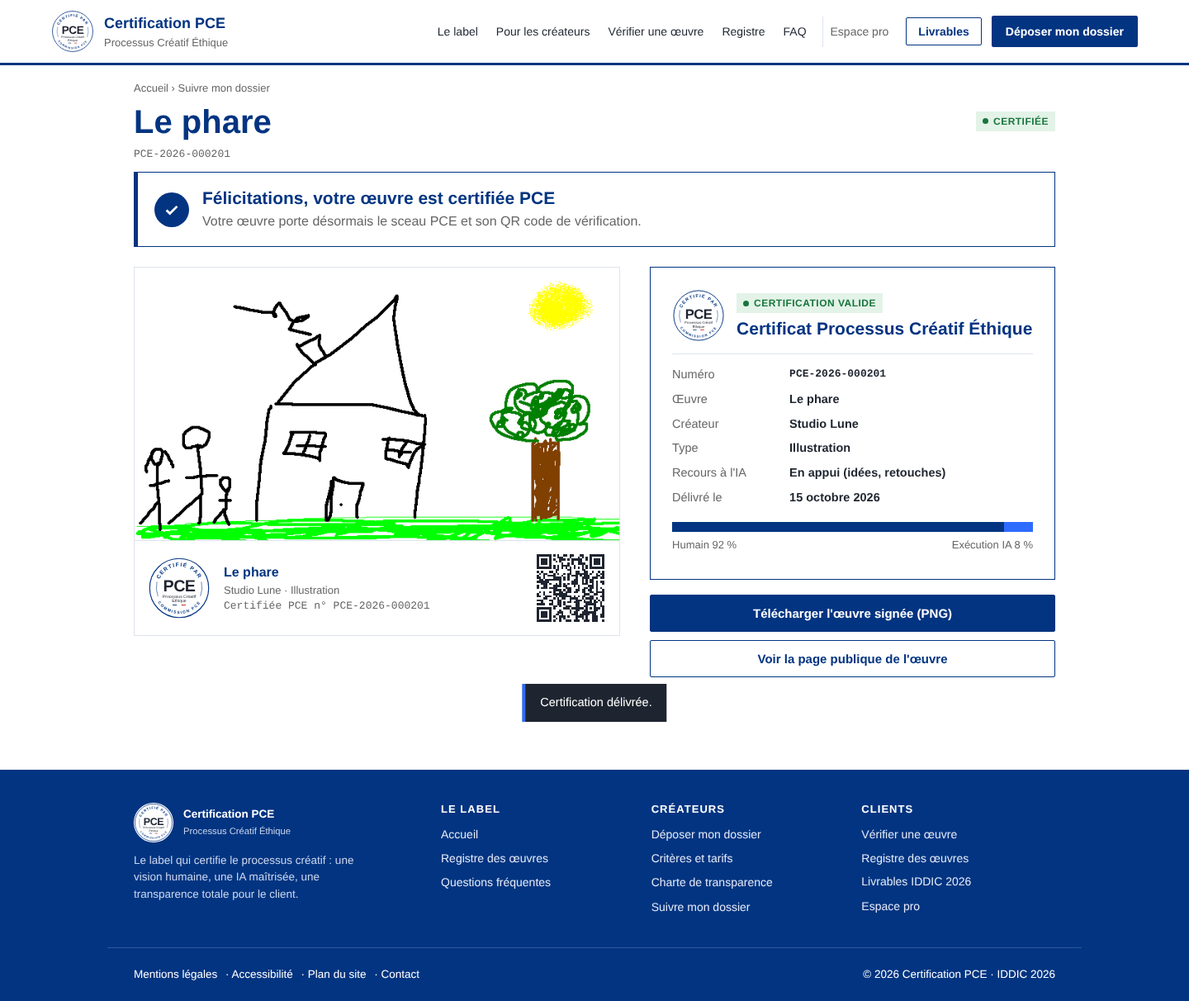
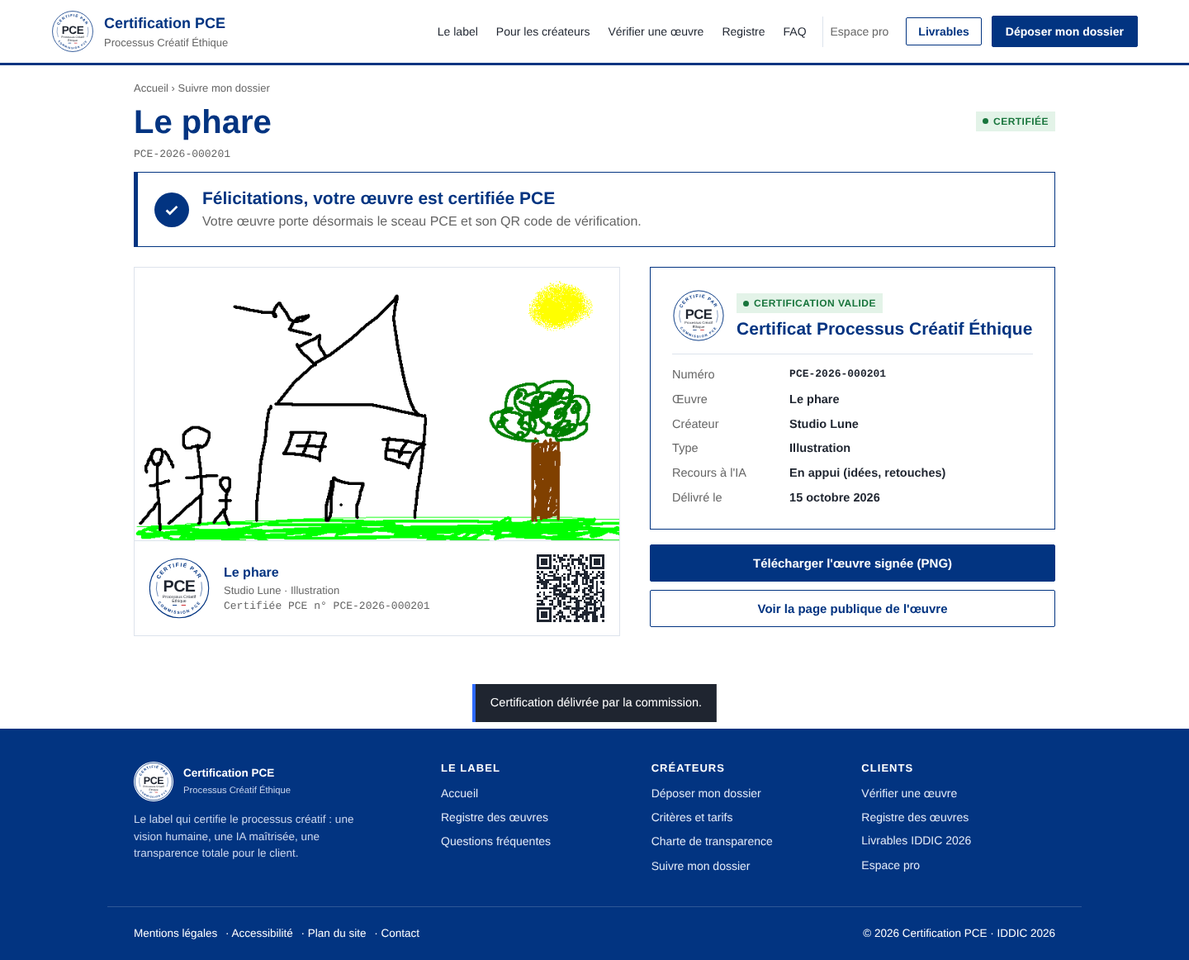
Aucun test d'IA dans le parcours créateur : vérification par la commission après le dépôt
Claude-Session: https://claude.ai/code/session_013D7uRxLFz2dHeA6eheZQbo

diff --git a/livrable/Prototype_PCE.html b/livrable/Prototype_PCE.html
@@ -2800,7 +2800,6 @@ const esc = s => String(s ?? "").replace(/[&<>"']/g, c => ({ "&": "&amp;", "<": 
 const eur = n => (Math.round(n * 100) / 100).toLocaleString("fr-FR", { minimumFractionDigits: 0, maximumFractionDigits: 2 }) + " €";
 const dateFr = d => new Date(d).toLocaleDateString("fr-FR", { day: "numeric", month: "long", year: "numeric" });
 const dateC = d => new Date(d).toLocaleDateString("fr-FR");
-const pctIA = d => { const t = (+d.recherche || 0) + (+d.creation || 0) + (+d.ia || 0); return t ? Math.round((+d.ia || 0) / t * 100) : 0; };
 function rng(seed) { let s = seed >>> 0 || 1; return () => (s = (s * 1664525 + 1013904223) >>> 0) / 4294967296; }
 function toast(msg) { $$(".toast").forEach(t => t.remove()); const t = document.createElement("div"); t.className = "toast"; t.setAttribute("role", "status"); t.textContent = msg; document.body.append(t); setTimeout(() => t.remove(), 3100); }
 function telecharger(nom, contenu, type) { const b = contenu instanceof Blob ? contenu : new Blob([contenu], { type }); const a = document.createElement("a"); a.href = URL.createObjectURL(b); a.download = nom; document.body.append(a); a.click(); setTimeout(() => { URL.revokeObjectURL(a.href); a.remove(); }, 500); }
@@ -2930,7 +2929,7 @@ const ariane = (...p) => `<div class="ariane"><a href="#/">Accueil</a> › ${p.m
 function vueAccueil() {
   const o = DB.data.oeuvres, cert = o.filter(x => x.statut === "certifiee");
   const createurs = new Set(cert.map(x => x.createur)).size;
-  const moyIA = cert.length ? Math.round(cert.reduce((s, x) => s + pctIA(x.dosage), 0) / cert.length) : 0;
+  const disciplines = new Set(cert.map(x => x.type)).size;
   return `<div class="conteneur">
     ${ariane("Certification PCE")}
     <section class="hero">
@@ -2945,8 +2944,8 @@ function vueAccueil() {
     <div class="chiffres rev">
       <div><b data-compte="${cert.length}">0</b><span>œuvres certifiées</span></div>
       <div><b data-compte="${createurs}">0</b><span>créateurs certifiés</span></div>
-      <div><b data-compte="${moyIA}" data-suffixe=" %">0</b><span>part moyenne d'exécution par IA</span></div>
-      <div><b data-compte="${SEUIL}" data-suffixe=" %">0</b><span>seuil maximal du référentiel</span></div>
+      <div><b data-compte="${disciplines}">0</b><span>disciplines représentées</span></div>
+      <div><b>0 €</b><span>pour vérifier une œuvre</span></div>
     </div>
   </div>
   <section class="section"><div class="conteneur">
@@ -2992,7 +2991,7 @@ function vueCreateurs() {
     <div class="grille4">
       <div class="carte rev"><h3><span class="pastille">1</span>Processus documenté</h3><p>Recherches, croquis, versions successives, choix de style.</p></div>
       <div class="carte rev"><h3><span class="pastille">2</span>Conception humaine</h3><p>L'intention, la composition et les choix artistiques sont les vôtres.</p></div>
-      <div class="carte rev"><h3><span class="pastille">3</span>IA en exécution</h3><p>L'exécution assistée par IA représente ${SEUIL} % maximum du projet. La commission le vérifie sur vos justificatifs.</p></div>
+      <div class="carte rev"><h3><span class="pastille">3</span>IA maîtrisée</h3><p>L'IA reste un outil d'exécution, dans la limite de ${SEUIL} % du projet fixée par le référentiel. La commission le vérifie après le dépôt, sur vos justificatifs.</p></div>
       <div class="carte rev"><h3><span class="pastille">4</span>Justificatifs</h3><p>Croquis, fichiers sources ou étapes intermédiaires, au format PDF, JPG ou PNG.</p></div>
     </div>
     <h2 style="margin-top:44px">Tarifs</h2>
@@ -3042,7 +3041,7 @@ function vueFaq() {
     ["Combien coûte la certification ?", "L'abonnement est sur mesure, à partir de 9 € HT par mois pour un indépendant. Son tarif dépend du nombre de créations à certifier, de la taille de la structure, de l'ampleur du processus créatif et de l'étude du dossier. La certification à l'unité dépend de l'œuvre, de 25 € à 149 € HT. La vérification est gratuite."],
     ["Comment un acheteur vérifie-t-il une œuvre ?", "En scannant le QR code apposé sur l'œuvre ou en saisissant le numéro PCE sur la page Vérifier une certification."],
     ["Pourquoi signer la Charte de transparence ?", "La charte engage le créateur sur l'usage de l'IA, la transparence des devis, le respect de la propriété intellectuelle et l'acceptation des audits. Sa signature est obligatoire pour déposer un dossier."],
-    ["Les heures déclarées suffisent-elles à obtenir le label ?", "Non. Les heures sont indicatives : elles servent au devis client et à l'estimation de l'abonnement. La part réelle d'IA est vérifiée par la commission sur les justificatifs (croquis, fichiers sources, calques, prompts)."],
+    ["Les heures déclarées suffisent-elles à obtenir le label ?", "Non. Les heures sont indicatives : elles servent au devis client et à l'estimation de l'abonnement. Aucun test d'IA n'est fait au dépôt : la commission vérifie ensuite la démarche sur les justificatifs (croquis, fichiers sources, calques, prompts)."],
     ["Que se passe-t-il en cas de refus ?", "Le motif vous est communiqué. Vous pouvez compléter votre dossier et le déposer à nouveau."],
   ];
   return `<div class="conteneur etroit">${ariane("FAQ")}<h1>Questions fréquentes</h1>${q.map(([a, b]) => `<details class="rev"><summary>${a}</summary><p>${b}</p></details>`).join("")}<div style="height:56px"></div></div>`;
@@ -3078,7 +3077,7 @@ function vueVerifier(id) {
     <div class="grille3" style="margin:6px 0 24px">
       <div class="carte rev"><h3><span class="pastille">1</span>Repérez le sceau</h3><p>Chaque œuvre certifiée porte le sceau PCE et un QR code unique.</p></div>
       <div class="carte rev"><h3><span class="pastille">2</span>Scannez ou saisissez</h3><p>Le QR code ou le numéro PCE mène au certificat de l'œuvre.</p></div>
-      <div class="carte rev"><h3><span class="pastille">3</span>Consultez le dosage</h3><p>Vous voyez la part de réflexion humaine et la part d'exécution assistée par IA.</p></div>
+      <div class="carte rev"><h3><span class="pastille">3</span>Consultez le certificat</h3><p>Créateur, discipline, recours à l'IA déclaré et date de certification par la commission.</p></div>
     </div>
     <div class="info" style="margin-bottom:56px"><span class="i">i</span><span>Le <a href="#/registre">registre public</a> recense toutes les œuvres certifiées.</span></div></div>`;
 }
@@ -3089,7 +3088,7 @@ function initVerifier(id) {
     r.innerHTML = `<div class="resultat-v"><div class="rond"></div></div>`;
     setTimeout(() => {
       if (!o) r.innerHTML = `<div class="resultat-v res-ko"><h3 style="color:var(--rouge)">Aucune certification trouvée</h3><p>Le numéro ${esc(n)} ne figure pas au registre PCE. Cette œuvre n'est pas certifiée.</p></div>`;
-      else if (o.statut === "certifiee") r.innerHTML = `<div class="resultat-v res-ok"><div class="vignette">${visuel(o)}</div><div><span class="badge b-certifiee">Certification valide</span><h3 style="margin-top:10px">${esc(o.titre)}</h3><p>${esc(o.createur)} · ${esc(o.type)}<br><span class="muted">Certifiée le ${dateFr(o.date)} · Humain ${100 - pctIA(o.dosage)} % · IA ${pctIA(o.dosage)} %</span></p><a class="btn petit" href="#/oeuvre/${o.id}">Voir le certificat <span class="fl">→</span></a></div></div>`;
+      else if (o.statut === "certifiee") r.innerHTML = `<div class="resultat-v res-ok"><div class="vignette">${visuel(o)}</div><div><span class="badge b-certifiee">Certification valide</span><h3 style="margin-top:10px">${esc(o.titre)}</h3><p>${esc(o.createur)} · ${esc(o.type)}<br><span class="muted">Certifiée le ${dateFr(o.date)} · Recours à l'IA déclaré : ${IA_LIB[o.iaMode].toLowerCase()}</span></p><a class="btn petit" href="#/oeuvre/${o.id}">Voir le certificat <span class="fl">→</span></a></div></div>`;
       else if (o.statut === "refusee") r.innerHTML = `<div class="resultat-v res-ko"><span class="badge b-refusee">Non certifiée</span><h3 style="margin-top:10px">${esc(o.titre)}</h3><p>Ce dossier a été examiné et n'a pas obtenu la certification PCE.</p></div>`;
       else r.innerHTML = `<div class="resultat-v res-att"><span class="badge b-commission">En cours d'examen</span><h3 style="margin-top:10px">${esc(o.titre)}</h3><p>Ce dossier est en cours d'examen (${STATUTS[o.statut].toLowerCase()}). L'œuvre n'est pas encore certifiée.</p></div>`;
     }, 500);
@@ -3101,7 +3100,6 @@ function initVerifier(id) {
 
 /* ---------- Fiche œuvre et certificat ---------- */
 function blocCertificat(o) {
-  const ia = pctIA(o.dosage);
   return `<div class="certificat">
     <div class="ent"><img src="${LOGO}" alt="Sceau PCE"><div><span class="badge b-certifiee">Certification valide</span><h2 style="margin:6px 0 0;font-size:21px">Certificat Processus Créatif Éthique</h2></div></div>
     <dl>
@@ -3112,7 +3110,6 @@ function blocCertificat(o) {
       <dt>Recours à l'IA</dt><dd>${IA_LIB[o.iaMode]}</dd>
       <dt>Délivré le</dt><dd>${dateFr(o.date)}</dd>
     </dl>
-    <div class="dosage"><div class="barre"><span class="h" style="width:${100 - ia}%"></span><span class="ia" style="width:${ia}%"></span></div><div class="leg"><span>Humain ${100 - ia} %</span><span>Exécution IA ${ia} %</span></div></div>
   </div>`;
 }
 function vueOeuvre(id) {
@@ -3201,10 +3198,10 @@ function etape2(b) {
   return champ("titre", "Titre de l'œuvre *", `<input id="titre" type="text" value="${esc(b.titre)}">`)
     + champ("description", "Décrivez votre processus, de l'idée au rendu *", `<textarea id="description" placeholder="Ex : recherches, croquis, choix de style, versions successives, outils utilisés…">${esc(b.description)}</textarea>`, "", "Décrivez votre processus en 40 caractères minimum.")
     + `<div class="champ"><span class="lab">Recours à l'IA dans votre travail *</span><div class="radios">${Object.entries(IA_LIB).map(([k, v]) => `<label><input type="radio" name="iaMode" value="${k}" ${b.iaMode === k ? "checked" : ""}> ${v}</label>`).join("")}</div></div>
-    <div class="champ"><span class="lab">Temps consacré au projet (heures, à titre indicatif)</span><span class="aide">Ces heures servent au devis client et à l'estimation de l'abonnement. Elles ne déterminent pas la certification : la part réelle d'IA est vérifiée par la commission sur vos justificatifs.</span>
+    <div class="champ"><span class="lab">Temps consacré au projet (heures, à titre indicatif)</span><span class="aide">Ces heures servent uniquement au devis client et à l'estimation de l'abonnement. Aucun test d'IA n'est fait au dépôt : la commission vérifie votre démarche après le dépôt, sur vos justificatifs.</span>
       <div class="ligne-h"><label for="recherche">Recherche et intention</label><input id="recherche" type="number" min="0" value="${b.recherche}"></div>
       <div class="ligne-h"><label for="creation">Création et direction artistique</label><input id="creation" type="number" min="0" value="${b.creation}"></div>
-      <div class="ligne-h" id="l-ia"><label for="ia">Exécution assistée par IA</label><input id="ia" type="number" min="0" value="${b.ia}"></div>
+      <div class="ligne-h" id="l-ia"><label for="ia">Exécution et finitions</label><input id="ia" type="number" min="0" value="${b.ia}"></div>
       <div class="dosage" id="dos"></div></div>`
     + `<div id="l-outils">` + champ("outils", "Outils d'IA utilisés et pour quoi faire", `<input id="outils" type="text" value="${esc(b.outils)}" placeholder="Ex : retouche colorimétrique, détourage">`) + `</div>`;
 }
@@ -3227,8 +3224,8 @@ const ARTICLES_3_5 = `
   <div class="article"><h3><span class="pastille">3</span>Engagement de transparence</h3><p>Je m'engage légalement et moralement à faire preuve d'une transparence absolue envers le label PCE et mes futurs clients. À ce titre, je certifie que :</p>
     <ul><li><b>L'IA comme assistant, pas comme créateur :</b> l'Intelligence Artificielle n'est utilisée que comme un outil d'assistance (recherche, inspiration, exécution de tâches répétitives, retouches mineures), dans la limite de ${SEUIL} % du temps total de chaque projet, conformément au référentiel PCE.</li>
     <li><b>La réflexion humaine prédomine :</b> la direction artistique, le concept originel, le message et la structure de l'œuvre finale sont à 100 % le fruit de mon travail intellectuel humain.</li>
-    <li><b>Transparence des devis :</b> je m'engage à utiliser le devis certifié PCE pour indiquer clairement à mon client la proportion de mon processus de travail assistée par IA.</li>
-    <li><b>Sincérité des déclarations :</b> je m'engage à déclarer de bonne foi, à titre indicatif, le temps consacré à la recherche, à la création et à l'exécution assistée par IA, et à fournir les justificatifs permettant à la commission de vérifier la part réelle d'IA.</li></ul></div>
+    <li><b>Transparence des devis :</b> je m'engage à utiliser le devis certifié PCE pour indiquer clairement à mon client les étapes de mon processus de travail et les outils d'IA utilisés.</li>
+    <li><b>Sincérité des déclarations :</b> je m'engage à déclarer de bonne foi, à titre indicatif, le temps consacré à la recherche, à la création et à l'exécution, et à fournir les justificatifs permettant à la commission de vérifier ma démarche et mon recours à l'IA.</li></ul></div>
   <div class="article"><h3><span class="pastille">4</span>Respect de la Propriété Intellectuelle</h3><p>Je certifie ne jamais utiliser de générateurs d'images ou de textes dans le but de reproduire, plagier ou piller le travail d'un autre créateur. Je m'assure que les contenus générés par IA que j'inclus dans mon travail final respectent les droits d'auteur en vigueur.</p></div>
   <div class="article" style="border:none"><h3><span class="pastille">5</span>Consentement à l'Audit et aux contrôles</h3><p>J'accepte que l'organisme PCE puisse, de manière aléatoire ou sur demande d'un client, réaliser un audit de mon processus créatif. Je m'engage à fournir sur demande les fichiers sources (calques, croquis, rushs, prompts) permettant de prouver la part de travail humain sur une œuvre certifiée. En cas de fraude avérée, je reconnais que le label PCE me sera immédiatement retiré, ainsi que les certificats des œuvres concernées, qui seront signalés comme retirés dans le registre public.</p></div>`;
 const PREAMBULE = "Le label Processus Créatif Éthique (PCE) a pour vocation de défendre la valeur du savoir-faire humain et de garantir aux clients une transparence totale sur l'utilisation de l'Intelligence Artificielle. En signant cette charte, le Créatif s'engage à faire de l'IA un outil d'assistance, et non un outil de substitution à sa réflexion artistique.";
@@ -3285,7 +3282,7 @@ ${ARTICLES_3_5.replace(/<div class="article"[^>]*><h3><span class="pastille">(\d
 }
 const telechargerCharte = o => { telecharger(`charte-signee-${o.id}.html`, charteSigneeHtml(o), "text/html"); toast("Charte signée téléchargée."); };
 function etape4(b) {
-  const ia = pctIA(b), unite = TYPES[b.type], est = estimerAbo(b.taille, b.creationsAn, (+b.recherche || 0) + (+b.creation || 0) + (+b.ia || 0));
+  const unite = TYPES[b.type], est = estimerAbo(b.taille, b.creationsAn, (+b.recherche || 0) + (+b.creation || 0) + (+b.ia || 0));
   const h = (+b.recherche || 0) + (+b.creation || 0) + (+b.ia || 0), t = +b.taux || 0, cert = b.formule === "unite" ? unite : 0;
   return `<h3>Votre formule</h3>
     <div class="formules">
@@ -3298,10 +3295,9 @@ function etape4(b) {
     <table class="devis"><tr><th>Poste</th><th>Montant HT</th></tr>
       <tr><td>Recherche et intention · ${b.recherche} h</td><td>${eur(b.recherche * t)}</td></tr>
       <tr><td>Création et direction artistique · ${b.creation} h</td><td>${eur(b.creation * t)}</td></tr>
-      <tr><td>Exécution assistée par IA · ${b.ia} h</td><td>${eur(b.ia * t)}</td></tr>
+      <tr><td>Exécution et finitions · ${b.ia} h</td><td>${eur(b.ia * t)}</td></tr>
       <tr><td>Certification PCE</td><td>${cert ? eur(cert) : "Incluse"}</td></tr>
       <tr class="tot"><td>Total HT</td><td>${eur(h * t + cert)}</td></tr></table>
-    <div class="dosage"><div class="barre"><span class="h" style="width:${100 - ia}%"></span><span class="ia" style="width:${ia}%"></span></div><div class="leg"><span>Humain ${100 - ia} %</span><span>Exécution IA ${ia} %</span></div></div>
     <button type="button" class="btn sec petit" id="dl-devis" style="margin-top:10px">Télécharger le devis</button>
     <h3 style="margin-top:28px">Récapitulatif</h3>
     <dl class="recap deux"><div><dt>Créateur</dt><dd>${esc(b.createur)}</dd><dt>E-mail</dt><dd>${esc(b.email)}</dd><dt>Discipline</dt><dd>${esc(b.type)}</dd></div>
@@ -3309,11 +3305,7 @@ function etape4(b) {
     ${b.signature ? `<div class="signee"><img src="${b.signature}" alt="Signature"><div><b>Charte de transparence signée</b><br><span class="muted">Le ${dateFr(b.signeLe)}</span></div></div>` : ""}
     ${b.img ? `<div class="apercu"><img src="${b.img}" alt=""><div><b>${esc(b.imgNom || "Œuvre finale")}</b><br><span class="muted petit-texte">Recevra le sceau PCE et un QR code.</span></div></div>` : ""}`;
 }
-function majDosage(b) {
-  const z = $("#dos"); if (!z) return; const ia = pctIA(b);
-  z.innerHTML = `<div class="barre"><span class="h" style="width:${100 - ia}%"></span><span class="ia" style="width:${ia}%"></span></div><div class="leg"><span>Humain ${100 - ia} %</span><span>Exécution IA ${ia} %</span></div>
-    <div class="verdict info">Répartition déclarée, indicative. La conformité au référentiel (IA en exécution, ${SEUIL} % maximum) est vérifiée par la commission sur vos justificatifs.</div>`;
-}
+function majDosage() {}
 function lireFichier(f) { return new Promise(ok => { const r = new FileReader(); r.onload = () => ok(r.result); r.readAsDataURL(f); }); }
 async function reduireImage(src, max = 1400) {
   const im = await chargerImg(src); const k = Math.min(1, max / Math.max(im.naturalWidth, im.naturalHeight));
@@ -3342,7 +3334,7 @@ function initDepot() {
     const x = $("input[name=expertise]:checked", form); if (x) b.expertise = x.value;
     DB.sauver();
   };
-  const iaUi = () => { const aucun = b.iaMode === "aucun"; if ($("#l-ia")) { $("#l-ia").style.display = aucun ? "none" : ""; $("#l-outils").style.display = aucun ? "none" : ""; if (aucun) { b.ia = 0; $("#ia").value = 0; } } majDosage(b); };
+  const iaUi = () => { if ($("#l-outils")) $("#l-outils").style.display = b.iaMode === "aucun" ? "none" : ""; };
   form.addEventListener("input", ev => { const ch = ev.target.closest(".champ, .article"); if (ch) ch.classList.remove("erreur"); lire(); iaUi(); if (e === 4) { const y = scrollY; $("#d-form").innerHTML = etape4(b); initEtape4(); scrollTo(0, y); } });
   form.addEventListener("change", ev => { const ch = ev.target.closest(".champ, .article"); if (ch) ch.classList.remove("erreur"); lire(); iaUi(); if (e === 4) { const y = scrollY; $("#d-form").innerHTML = etape4(b); initEtape4(); scrollTo(0, y); } });
   if (e === 1) iaUi();
@@ -3374,9 +3366,9 @@ function initDepot() {
 function initEtape4() {
   const b = brouillon();
   $("#dl-devis").onclick = () => {
-    const t = +b.taux || 0, cert = b.formule === "unite" ? TYPES[b.type] : 0, ia = pctIA(b);
-    const l = [["Recherche et intention", b.recherche], ["Création et direction artistique", b.creation], ["Exécution assistée par IA", b.ia]];
-    const html = `<!doctype html><html lang="fr"><meta charset="utf-8"><title>Devis ${esc(b.titre)}</title><body style="font-family:Arial;max-width:720px;margin:40px auto;color:#1F2530"><h1 style="color:#023481">Devis</h1><p><b>${esc(b.createur)}</b><br>${esc(b.titre)} · ${esc(b.type)}</p><table style="width:100%;border-collapse:collapse">${l.map(([n, h]) => `<tr><td style="padding:8px;border-bottom:1px solid #ddd">${n} · ${h} h</td><td style="text-align:right;padding:8px;border-bottom:1px solid #ddd">${eur(h * t)}</td></tr>`).join("")}<tr><td style="padding:8px">Certification PCE</td><td style="text-align:right;padding:8px">${cert ? eur(cert) : "Incluse"}</td></tr><tr><td style="padding:8px;font-weight:bold;color:#023481">Total HT</td><td style="text-align:right;padding:8px;font-weight:bold;color:#023481">${eur((+b.recherche + +b.creation + +b.ia) * t + cert)}</td></tr></table><p>Dosage du processus : humain ${100 - ia} %, exécution assistée par IA ${ia} %.</p><p style="color:#666">Processus certifié PCE · Processus Créatif Éthique</p></body></html>`;
+    const t = +b.taux || 0, cert = b.formule === "unite" ? TYPES[b.type] : 0;
+    const l = [["Recherche et intention", b.recherche], ["Création et direction artistique", b.creation], ["Exécution et finitions", b.ia]];
+    const html = `<!doctype html><html lang="fr"><meta charset="utf-8"><title>Devis ${esc(b.titre)}</title><body style="font-family:Arial;max-width:720px;margin:40px auto;color:#1F2530"><h1 style="color:#023481">Devis</h1><p><b>${esc(b.createur)}</b><br>${esc(b.titre)} · ${esc(b.type)}</p><table style="width:100%;border-collapse:collapse">${l.map(([n, h]) => `<tr><td style="padding:8px;border-bottom:1px solid #ddd">${n} · ${h} h</td><td style="text-align:right;padding:8px;border-bottom:1px solid #ddd">${eur(h * t)}</td></tr>`).join("")}<tr><td style="padding:8px">Certification PCE</td><td style="text-align:right;padding:8px">${cert ? eur(cert) : "Incluse"}</td></tr><tr><td style="padding:8px;font-weight:bold;color:#023481">Total HT</td><td style="text-align:right;padding:8px;font-weight:bold;color:#023481">${eur((+b.recherche + +b.creation + +b.ia) * t + cert)}</td></tr></table><p>Recours à l'IA déclaré : ${IA_LIB[b.iaMode].toLowerCase()}${b.outils ? " (" + esc(b.outils) + ")" : ""}.</p><p style="color:#666">Processus certifié PCE · Processus Créatif Éthique</p></body></html>`;
     telecharger(`devis-${(b.titre || "oeuvre").toLowerCase().replace(/[^a-z0-9]+/g, "-")}.html`, html, "text/html"); toast("Devis téléchargé.");
   };
 }
@@ -3411,7 +3403,7 @@ function vueConfirmation(id) {
 function initConfirmation(id) {
   const o = DB.get(id); if (!o || !$("#dl-ar")) return;
   $("#dl-ch").onclick = () => telechargerCharte(o);
-  $("#dl-ar").onclick = () => { telecharger(`accuse-reception-${o.id}.txt`, `CERTIFICATION PCE · PROCESSUS CRÉATIF ÉTHIQUE\n\nAccusé de réception\n\nNuméro de dossier : ${o.id}\nDéposé le : ${dateFr(o.date)}\nCréateur : ${o.createur}\nŒuvre : ${o.titre} (${o.type})\nRecours à l'IA : ${IA_LIB[o.iaMode]} · ${pctIA(o.dosage)} % du projet\nJustificatifs : ${o.justificatifs.join(", ")}\n\nSuivi : ${BASE}/suivi/${o.id}\n`, "text/plain"); toast("Accusé de réception téléchargé."); };
+  $("#dl-ar").onclick = () => { telecharger(`accuse-reception-${o.id}.txt`, `CERTIFICATION PCE · PROCESSUS CRÉATIF ÉTHIQUE\n\nAccusé de réception\n\nNuméro de dossier : ${o.id}\nDéposé le : ${dateFr(o.date)}\nCréateur : ${o.createur}\nŒuvre : ${o.titre} (${o.type})\nRecours à l'IA déclaré : ${IA_LIB[o.iaMode]}\nJustificatifs : ${o.justificatifs.join(", ")}\n\nSuivi : ${BASE}/suivi/${o.id}\n`, "text/plain"); toast("Accusé de réception téléchargé."); };
 }
 function vueSuivi(id) {
   const o = DB.get(id);
@@ -3453,7 +3445,7 @@ function vuePro() {
 function proTableau() {
   const o = DB.data.oeuvres, c = o.filter(x => x.statut === "certifiee"), enc = o.filter(x => ["deposee", "analyse", "commission"].includes(x.statut));
   const tranch = o.filter(x => ["certifiee", "refusee"].includes(x.statut)), taux = tranch.length ? Math.round(c.length / tranch.length * 100) : 0;
-  const moy = c.length ? (c.reduce((s, x) => s + pctIA(x.dosage), 0) / c.length).toFixed(1).replace(".", ",") : 0;
+  const nbCrea = new Set(c.map(x => x.createur)).size;
   const mois = ["Janv.", "Févr.", "Mars", "Avr.", "Mai", "Juin", "Juil.", "Août", "Sept.", "Oct.", "Nov.", "Déc."];
   const parMois = mois.map((m, i) => c.filter(x => new Date(x.date).getMonth() === i && new Date(x.date).getFullYear() === 2026).length).slice(0, 10), max = Math.max(1, ...parMois);
   const parType = Object.keys(TYPES).map(t => [t, c.filter(x => x.type === t).length]), maxT = Math.max(1, ...parType.map(x => x[1]));
@@ -3461,7 +3453,7 @@ function proTableau() {
       <div class="kpi rev"><b data-compte="${c.length}">0</b><span>Œuvres certifiées</span></div>
       <div class="kpi rev"><b data-compte="${enc.length}">0</b><span>Dossiers en cours</span></div>
       <div class="kpi rev"><b data-compte="${taux}" data-suffixe=" %">0</b><span>Taux de certification</span></div>
-      <div class="kpi rev"><b>${moy} %</b><span>Part IA moyenne des œuvres certifiées</span></div>
+      <div class="kpi rev"><b data-compte="${nbCrea}">0</b><span>Créateurs certifiés</span></div>
     </div>
     <div class="pro-grille">
       <div class="boite-pro rev"><h3>Certifications délivrées en 2026</h3><div class="histo">${parMois.map((v, i) => `<div><em>${v}</em><i style="height:${v / max * 130}px;animation-delay:${i * 60}ms" title="${v} certification(s)"></i><span>${mois[i]}</span></div>`).join("")}</div></div>
@@ -3473,14 +3465,14 @@ function proTableau() {
 function filtrer(seulsEnCours) {
   const q = PRO.q.toLowerCase();
   let l = DB.data.oeuvres.filter(o => (!seulsEnCours || ["deposee", "analyse", "commission"].includes(o.statut)) && (!PRO.statut || o.statut === PRO.statut) && (!PRO.type || o.type === PRO.type) && (!q || (o.id + " " + o.titre + " " + o.createur + " " + o.email).toLowerCase().includes(q)));
-  const v = o => ({ id: o.id, titre: o.titre.toLowerCase(), createur: o.createur.toLowerCase(), type: o.type, ia: pctIA(o.dosage), date: +new Date(o.date), statut: o.statut }[PRO.tri]);
+  const v = o => ({ id: o.id, titre: o.titre.toLowerCase(), createur: o.createur.toLowerCase(), type: o.type, ia: o.iaMode, date: +new Date(o.date), statut: o.statut }[PRO.tri]);
   return l.sort((a, b) => (v(a) > v(b) ? 1 : v(a) < v(b) ? -1 : 0) * PRO.sens);
 }
 function tableau(l, triable = true) {
   if (!l.length) return `<div class="vide-msg" style="border:none">Aucun dossier.</div>`;
-  const col = [["id", "N° PCE"], ["titre", "Œuvre"], ["createur", "Créateur"], ["type", "Type"], ["ia", "Part IA"], ["date", "Date"], ["statut", "Statut"]];
+  const col = [["id", "N° PCE"], ["titre", "Œuvre"], ["createur", "Créateur"], ["type", "Type"], ["ia", "IA déclarée"], ["date", "Date"], ["statut", "Statut"]];
   return `<table class="bdd"><thead><tr>${col.map(([k, t]) => `<th ${triable ? `data-tri="${k}"` : ""} class="${PRO.tri === k && triable ? "trie" : ""}" scope="col">${t}${triable ? `<span class="tri">${PRO.tri === k ? (PRO.sens > 0 ? "▲" : "▼") : "↕"}</span>` : ""}</th>`).join("")}</tr></thead>
-    <tbody>${l.map((o, i) => `<tr data-id="${o.id}" tabindex="0" style="animation-delay:${i * 25}ms"><td class="mono">${o.id}</td><td><div class="t-oeuvre"><span class="mini">${visuel(o)}</span>${esc(o.titre)}</div></td><td>${esc(o.createur)}</td><td>${esc(o.type)}</td><td>${pctIA(o.dosage)} %</td><td>${dateC(o.date)}</td><td><span class="badge b-${o.statut}">${STATUTS[o.statut]}</span></td></tr>`).join("")}</tbody></table>`;
+    <tbody>${l.map((o, i) => `<tr data-id="${o.id}" tabindex="0" style="animation-delay:${i * 25}ms"><td class="mono">${o.id}</td><td><div class="t-oeuvre"><span class="mini">${visuel(o)}</span>${esc(o.titre)}</div></td><td>${esc(o.createur)}</td><td>${esc(o.type)}</td><td>${{ aucun: "Aucune", appui: "En appui", generation: "Génération" }[o.iaMode]}</td><td>${dateC(o.date)}</td><td><span class="badge b-${o.statut}">${STATUTS[o.statut]}</span></td></tr>`).join("")}</tbody></table>`;
 }
 function proBase(enCours) {
   const l = filtrer(enCours), par = 12, nb = Math.max(1, Math.ceil(l.length / par)); PRO.page = Math.min(PRO.page, nb - 1);
@@ -3508,7 +3500,7 @@ function initPro() {
     if ($("#pg-s")) $("#pg-s").onclick = () => { PRO.page++; re(); };
     if ($("#csv")) $("#csv").onclick = () => {
       const l = filtrer(PRO.onglet === "dossiers"), q = s => `"${String(s).replace(/"/g, '""')}"`;
-      const csv = "" + ["Numéro;Œuvre;Créateur;E-mail;Type;Ville;Date;Statut;Heures recherche;Heures création;Heures IA;Part IA %;Recours IA;Formule;Structure;Créations par an;Tarif abonnement HT / mois"].concat(l.map(o => [o.id, o.titre, o.createur, o.email, o.type, o.ville, dateC(o.date), STATUTS[o.statut], o.dosage.recherche, o.dosage.creation, o.dosage.ia, pctIA(o.dosage), IA_LIB[o.iaMode], o.formule === "abonnement" ? "Abonnement" : "Unité", o.taille || "", o.creationsAn || "", o.prixAbo ?? ""].map(q).join(";"))).join("\n");
+      const csv = "" + ["Numéro;Œuvre;Créateur;E-mail;Type;Ville;Date;Statut;Heures recherche (indicatif);Heures création (indicatif);Heures exécution (indicatif);Recours IA déclaré;Formule;Structure;Créations par an;Tarif abonnement HT / mois"].concat(l.map(o => [o.id, o.titre, o.createur, o.email, o.type, o.ville, dateC(o.date), STATUTS[o.statut], o.dosage.recherche, o.dosage.creation, o.dosage.ia, IA_LIB[o.iaMode], o.formule === "abonnement" ? "Abonnement" : "Unité", o.taille || "", o.creationsAn || "", o.prixAbo ?? ""].map(q).join(";"))).join("\n");
       telecharger("base-oeuvres-pce.csv", csv, "text/csv;charset=utf-8"); toast(`${l.length} ligne(s) exportée(s).`);
     };
     if ($("#reset")) $("#reset").onclick = () => { if (confirm("Réinitialiser toutes les données de démonstration ?")) { DB.reset(); DB.data.pro = true; DB.sauver(); re(); toast("Données de démonstration réinitialisées."); } };
@@ -3518,7 +3510,7 @@ function initPro() {
   initPro2();
 }
 function tiroir(id, apres) {
-  const o = DB.get(id); if (!o) return; const ia = pctIA(o.dosage);
+  const o = DB.get(id); if (!o) return;
   const fond = document.createElement("div"); fond.className = "tiroir-fond";
   const t = document.createElement("aside"); t.className = "tiroir"; t.setAttribute("role", "dialog"); t.setAttribute("aria-modal", "true"); t.setAttribute("aria-label", "Dossier " + o.id);
   const actions = { deposee: [["analyse", "Lancer l'analyse", ""]], analyse: [["commission", "Transmettre à la commission", ""]], commission: [["certifiee", "Certifier l'œuvre", "vert"], ["refusee", "Refuser", "danger"]] }[o.statut] || [];
@@ -3531,9 +3523,8 @@ function tiroir(id, apres) {
       <h4>Processus déclaré</h4><p style="font-size:14.5px">${esc(o.description)}</p>
       <h4>Recours à l'IA</h4><p style="font-size:14.5px">${IA_LIB[o.iaMode]}${o.outils ? " · " + esc(o.outils) : ""}</p>
       <h4>Heures déclarées (indicatives)</h4>
-      <table class="devis"><tr><td>Recherche et intention</td><td>${o.dosage.recherche} h</td></tr><tr><td>Création et direction artistique</td><td>${o.dosage.creation} h</td></tr><tr><td>Exécution assistée par IA</td><td>${o.dosage.ia} h</td></tr></table>
-      <div class="dosage"><div class="barre"><span class="h" style="width:${100 - ia}%"></span><span class="ia" style="width:${ia}%"></span></div><div class="leg"><span>Humain ${100 - ia} %</span><span>Exécution IA ${ia} %</span></div>
-      <div class="verdict info">Heures déclarées par le créatif, à titre indicatif. À contrôler sur les justificatifs (croquis, fichiers sources, calques, prompts) avant décision.</div></div>
+      <table class="devis"><tr><td>Recherche et intention</td><td>${o.dosage.recherche} h</td></tr><tr><td>Création et direction artistique</td><td>${o.dosage.creation} h</td></tr><tr><td>Exécution et finitions</td><td>${o.dosage.ia} h</td></tr></table>
+      <div class="verdict info" style="margin-top:12px">Heures déclarées par le créatif, à titre indicatif. La commission vérifie la démarche et le recours à l'IA sur les justificatifs (croquis, fichiers sources, calques, prompts) avant décision.</div>
       <h4 style="margin-top:16px">Charte de transparence</h4>
       ${o.charte ? `<div class="signee">${o.charte.signature ? `<img src="${o.charte.signature}" alt="Signature">` : ""}<div><b>Signée le ${dateFr(o.charte.signeLe || o.date)}</b><br><span class="muted">${esc(o.charte.expertise === "Autre" ? o.charte.expertiseAutre : o.charte.expertise)} · Outils IA : ${esc(o.charte.outilsIA)}</span><br><button type="button" class="lien" id="t-ch">Télécharger la charte signée</button></div></div>` : `<div class="res-ko">Charte non signée.</div>`}
       <h4 style="margin-top:16px">Justificatifs</h4><ul class="fichiers">${o.justificatifs.map(n => `<li><span>📄 ${esc(n)}</span><span class="muted">Reçu</span></li>`).join("")}</ul>

diff --git a/AUDIT.md b/AUDIT.md
@@ -32,7 +32,7 @@ Limites : tests faits dans Chromium (moteur de Chrome et Edge). Firefox et Safar
 | Le BP n'expliquait pas ses chiffres | Onglet Hypothèses ajouté |
 | Charte v1.0 : « Label officiel » avant toute accréditation, tirets longs, pas de lien avec le seuil de 10 % | Charte v1.1 dans le site : « Label Processus Créatif Éthique », seuil de 10 % dans l'article 3, engagement d'exactitude des déclarations, retrait des certificats en cas de fraude (article 5), page publique `#/charte` |
 | Deux rubriques « Pour les clients » et « Vérifier une certification » | Fusionnées en « Vérifier une œuvre » |
-| Le site jugeait l'éligibilité d'après les heures déclarées par le créatif (déclaration invérifiable) | Heures rendues indicatives : plus de blocage ni de verdict automatique. La part réelle d'IA est vérifiée par la commission sur les justificatifs. Charte (article 3), FAQ, critères et pitch alignés |
+| Le site mesurait l'IA d'après les heures déclarées par le créatif (déclaration invérifiable) | Aucun test d'IA dans le parcours créateur : plus de blocage, de verdict, de pourcentage humain / IA (dépôt, devis, certificat, vérification, accueil, espace pro, export). Les heures sont indicatives (devis et abonnement). Le seuil de 10 % reste une règle du référentiel, vérifiée ensuite par la commission sur les justificatifs. Charte (article 3), FAQ, critères et pitch alignés |
 
 ## 3. Business plan après correction
 

diff --git a/livrable/README.md b/livrable/README.md
@@ -11,7 +11,7 @@
 Site complet en un seul fichier. Les données sont enregistrées dans le navigateur.
 
 - **Côté public** : accueil, critères et tarifs avec estimateur d'abonnement, vérification d'une œuvre (rubrique clients), registre des œuvres certifiées, Charte de transparence, FAQ.
-- **Parcours créateur** : dépôt du dossier en 5 étapes, calcul du dosage humain et IA (seuil 10 %), Charte de transparence (version 1.1) remplie et signée en ligne, obligatoire, abonnement sur mesure, devis client transparent, accusé de réception, suivi, certificat, œuvre signée avec sceau et QR code.
+- **Parcours créateur** : dépôt du dossier en 5 étapes, heures indicatives sans test d'IA (vérification par la commission après le dépôt), Charte de transparence (version 1.1) remplie et signée en ligne, obligatoire, abonnement sur mesure, devis client transparent, accusé de réception, suivi, certificat, œuvre signée avec sceau et QR code.
 - **Bouton Livrables** dans l'en-tête : téléchargement du pitch, du business plan et du prototype.
 - **Espace pro** (connexion de démonstration pré-remplie) : tableau de bord, dossiers à traiter, base des œuvres avec recherche, filtres, tri, fiche détaillée avec charte signée, décision de la commission, export CSV.
 
